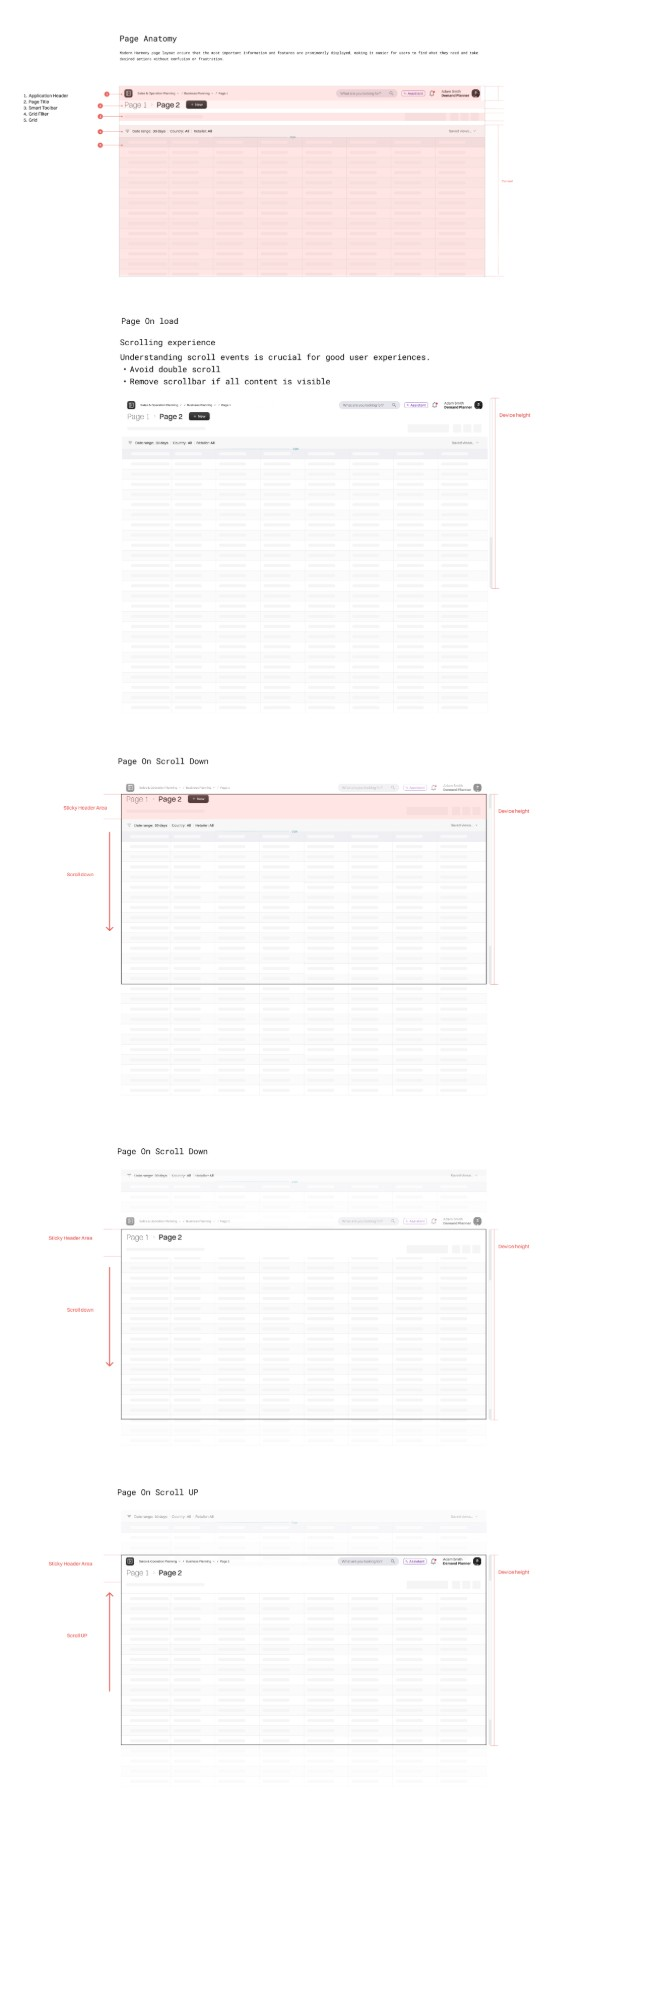
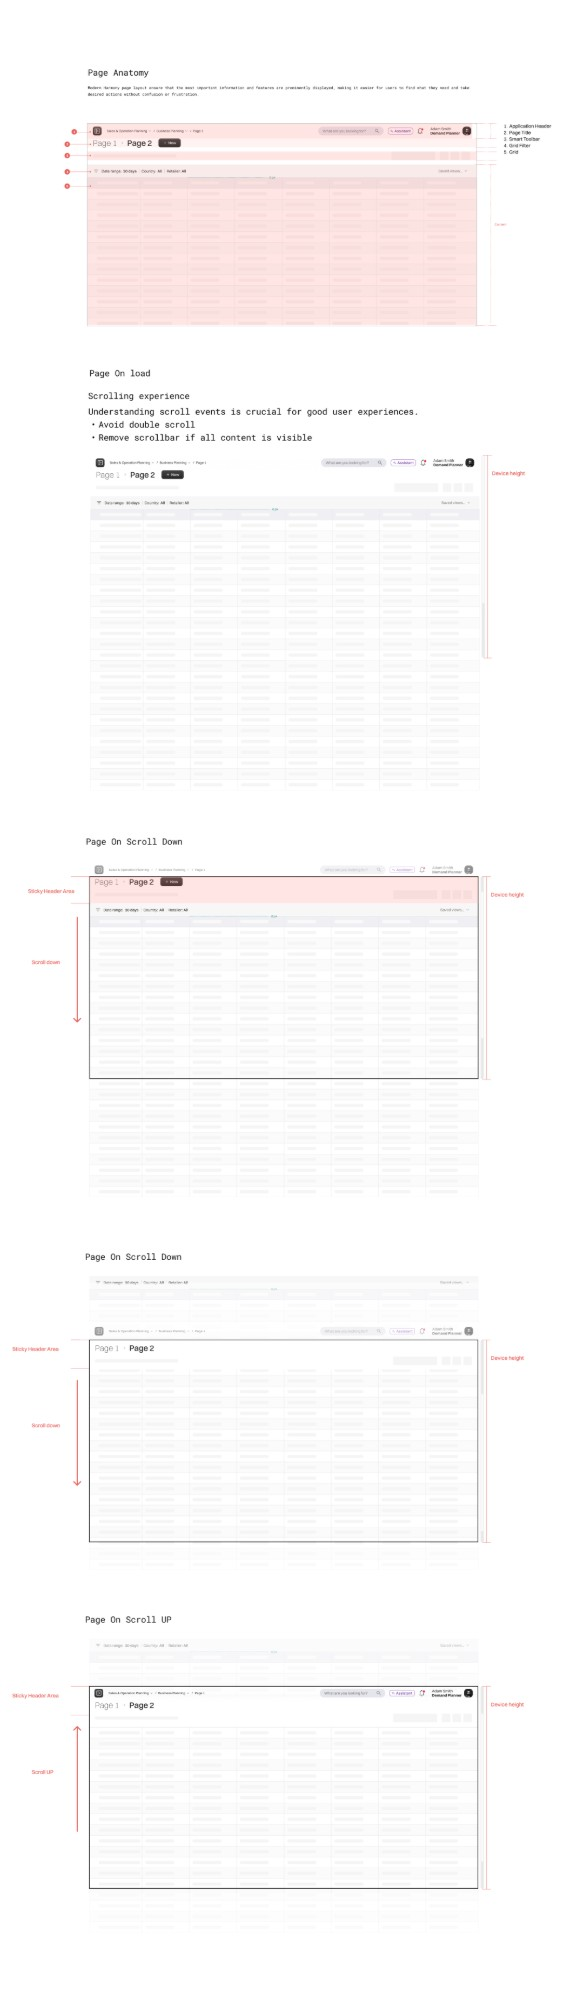
Update Page Layouts with correct images and add Form Layout card
Replaces duplicate images with the correct 5 unique layout reference screenshots, updates card descriptions to match actual content, and adds a 5th card for Form Layout guidelines.

https://claude.ai/code/session_01XLQNy9qxeHGeMWM87tGuT5

diff --git a/src/App.tsx b/src/App.tsx
@@ -2621,23 +2621,30 @@ function PageLayoutsSection() {
     {
       number: '02',
       name: 'Layout Guidelines',
-      description: 'Structural layout principles covering page on load, scroll down and scroll up states with annotated component regions.',
-      tags: ['Guidelines', 'Structure'],
+      description: 'Margin & spacing scale, visual rhythm, page layout patterns, filter UI, page drill-in behaviour, form layout, and workspace dashboard reference.',
+      tags: ['Spacing', 'Guidelines', 'Patterns'],
       src: '/layouts/layout-guidelines.png',
     },
     {
       number: '03',
       name: 'Empty States',
-      description: 'Empty state patterns for data grids, decision interfaces, and modal dialogs — with clear calls-to-action and contextual messaging.',
-      tags: ['Empty State', 'UX Patterns'],
+      description: 'Empty state patterns across data grids (Item Master), decision builder (e2open Intelligence), and expression modals — each with distinct CTA guidance.',
+      tags: ['Empty State', 'Data Grid', 'Modals'],
       src: '/layouts/empty-states.png',
     },
     {
       number: '04',
       name: 'Filter & Form Layout',
-      description: 'Filter panel layout with inline form controls, Advanced Filter expansion, Apply/Save/Clear actions, and grid integration.',
-      tags: ['Filters', 'Forms', 'Grid'],
+      description: 'Responsive filter patterns across four breakpoints (Large/Medium/Small/Extra-small) with collapsed filter states and truncation behaviour.',
+      tags: ['Filters', 'Responsive', 'Breakpoints'],
       src: '/layouts/filter-form-layout.png',
+    },
+    {
+      number: '05',
+      name: 'Form Layout',
+      description: 'Single-column form layout principles — clear labels, inline validation, minimal fields, and accordion grouping for long multi-section forms.',
+      tags: ['Forms', 'Accordion', 'UX'],
+      src: '/layouts/form-layout.png',
     },
   ];
 
